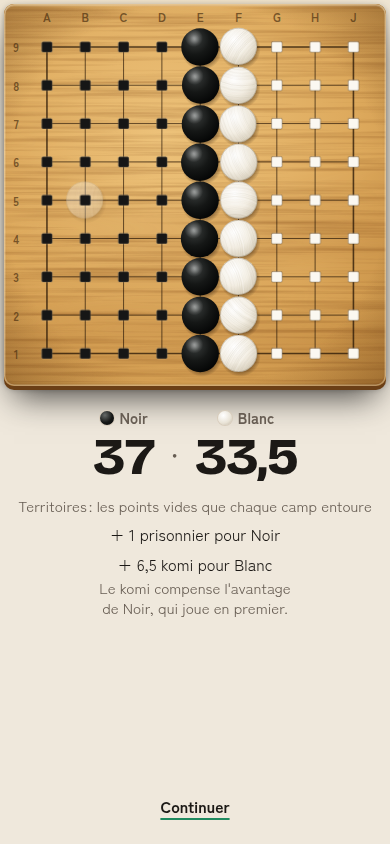
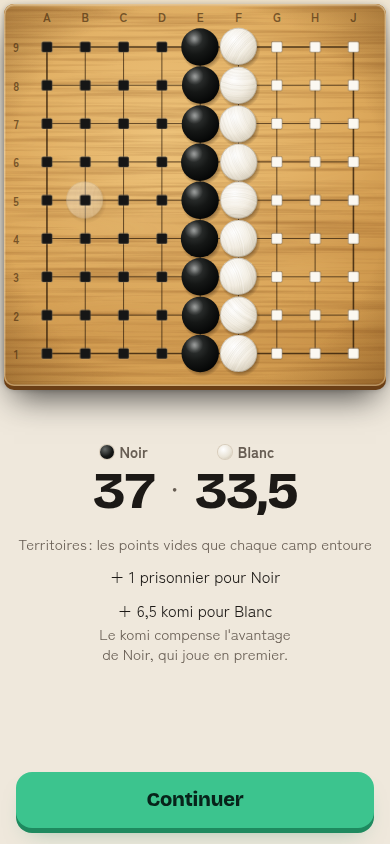
Récit du score « Toi / Pomme » et conseil pour finir la partie (#118, #120) (#131)
#118 : contre l'ordi, le récit dit « Toi » et le nom de l'adversaire,
pierre de couleur gardée ; le résultat devient « Tu gagnes de 3,5 points ! »
ou « Pomme gagne de 2,5 points ». « Continuer » devient le bouton principal
(.cta, 44 px et plus) et le bloc du récit est centré sous le goban.
À deux, les camps restent Noir et Blanc.

#120 : quand le plateau est presque plein, ou dès que Pomme passe, Mochi
explique une seule fois comment finir, avec le mot « passer » expliqué
(mémorisé dans go.passer-explique.v1). Suit le réglage d'aide de Mochi.

Game.tsx : trois lignes de branchement et l'import (hors en-tête et
hors logique de comptage).

Claude-Session: https://claude.ai/code/session_01MBh4E5pGWe9HRzjpTV2rVx

diff --git a/src/ui/RecitScore.tsx b/src/ui/RecitScore.tsx
@@ -2,7 +2,7 @@
 // puis les prisonniers, puis le komi, puis le résultat. 2,5 s au plus ; un toucher saute au résultat (l'écran de fin).
 // Même fond que FinPartie (plateau sous un voile) : quand le récit cède la place, seul le bas de l'écran change.
 import { useEffect, useRef, useState, type ReactNode } from 'react';
-import { DUREE_RECIT, EXPLICATION_KOMI, etatRecit, ligneDeuxieme, ligneKomi, ligneResultat, PAUSE_LECTURE, type Recit } from '../app/score';
+import { campsRecit, DUREE_RECIT, EXPLICATION_KOMI, etatRecit, ligneDeuxieme, ligneKomi, ligneResultat, PAUSE_LECTURE, type Recit } from '../app/score';
 import { fr } from './typo';
 import './fin.css';
 
@@ -14,13 +14,16 @@ interface Props {
   immediat: boolean;
   /** Première fois qu'on compte : on explique le mot « komi ». */
   expliquerKomi: boolean;
+  /** Contre l'ordi : son nom (« Pomme »). Les camps deviennent « Toi » et lui ; sans, Noir et Blanc (partie à deux). */
+  adversaire?: string;
   /** Fin du récit (après la pause de lecture) ou toucher : place à l'écran de fin. */
   onFini: () => void;
 }
 
 const virgule = (n: number) => String(n).replace('.', ',');
 
-export function RecitScore({ fond, recit, immediat, expliquerKomi, onFini }: Props) {
+export function RecitScore({ fond, recit, immediat, expliquerKomi, adversaire, onFini }: Props) {
+  const camps = campsRecit(adversaire);
   const [t, setT] = useState(immediat ? DUREE_RECIT : 0);
   const fini = useRef(onFini);
   useEffect(() => { fini.current = onFini; });
@@ -52,28 +55,30 @@ export function RecitScore({ fond, recit, immediat, expliquerKomi, onFini }: Pro
         <div className="fin-voile" aria-hidden="true" />
       </div>
       <div className="recit-feuille">
-        <div className="recit-compteur" aria-hidden="true">
-          <span className={gagnant === 1 ? 'camp gagnant' : 'camp'}>
-            <span className="camp-nom"><span className="recit-pierre b" />Noir</span>
-            <b data-testid="recit-noir">{virgule(e.noir)}</b>
-          </span>
-          <span className="recit-point">·</span>
-          <span className={gagnant === 2 ? 'camp gagnant' : 'camp'}>
-            <span className="camp-nom"><span className="recit-pierre w" />Blanc</span>
-            <b data-testid="recit-blanc">{virgule(e.blanc)}</b>
-          </span>
+        <div className="recit-bloc">
+          <div className="recit-compteur" aria-hidden="true">
+            <span className={gagnant === 1 ? 'camp gagnant' : 'camp'}>
+              <span className="camp-nom"><span className="recit-pierre b" />{camps.noir}</span>
+              <b data-testid="recit-noir">{virgule(e.noir)}</b>
+            </span>
+            <span className="recit-point">·</span>
+            <span className={gagnant === 2 ? 'camp gagnant' : 'camp'}>
+              <span className="camp-nom"><span className="recit-pierre w" />{camps.blanc}</span>
+              <b data-testid="recit-blanc">{virgule(e.blanc)}</b>
+            </span>
+          </div>
+          <p className="sr-only">{fr(`${camps.noir} ${virgule(recit.noir)}, ${camps.blanc} ${virgule(recit.blanc)}.`)}</p>
+          <ol className="recit-etapes">
+            <li className={vu(1)}>{fr(recit.territoire.length ? 'Territoires : les points vides que chaque camp entoure' : 'Aucun territoire')}</li>
+            <li className={vu(2)}>{fr(ligneDeuxieme(recit, camps))}</li>
+            <li className={vu(3)}>
+              {fr(ligneKomi(recit.komi, camps))}
+              {expliquerKomi && recit.komi !== 0 && <span className="recit-explication">{fr(EXPLICATION_KOMI)}</span>}
+            </li>
+            <li className={`${vu(4)} recit-resultat`}>{fr(ligneResultat(recit, camps))}</li>
+          </ol>
         </div>
-        <p className="sr-only">{fr(`Noir ${virgule(recit.noir)}, Blanc ${virgule(recit.blanc)}.`)}</p>
-        <ol className="recit-etapes">
-          <li className={vu(1)}>{fr(recit.territoire.length ? 'Territoires : les points vides que chaque camp entoure' : 'Aucun territoire')}</li>
-          <li className={vu(2)}>{fr(ligneDeuxieme(recit))}</li>
-          <li className={vu(3)}>
-            {fr(ligneKomi(recit.komi))}
-            {expliquerKomi && recit.komi !== 0 && <span className="recit-explication">{fr(EXPLICATION_KOMI)}</span>}
-          </li>
-          <li className={`${vu(4)} recit-resultat`}>{fr(ligneResultat(recit))}</li>
-        </ol>
-        <button type="button" className="lien lien-discret recit-passer" onClick={() => fini.current()}>Continuer</button>
+        <button type="button" className="cta recit-continuer" onClick={() => fini.current()}>Continuer</button>
       </div>
     </section>
   );

diff --git a/src/app/score.ts b/src/app/score.ts
@@ -64,27 +64,44 @@ export function etatRecit(r: Recit, t: number): EtatRecit {
 
 const pluriel = (n: number, mot: string) => `${virgule(n)} ${mot}${Math.abs(n) >= 2 ? 's' : ''}`;
 
-/** Ligne du deuxième temps : « + 3 prisonniers pour Noir, + 1 pour Blanc ». */
-export function ligneDeuxieme(r: Recit): string {
-  const { type, noir, blanc } = r.deuxieme, mot = type === 'prisonniers' ? 'prisonnier' : 'pierre';
-  if (!noir && !blanc) return type === 'prisonniers' ? 'Aucun prisonnier' : 'Aucune pierre';
-  if (!blanc) return `+ ${pluriel(noir, mot)} pour Noir`;
-  if (!noir) return `+ ${pluriel(blanc, mot)} pour Blanc`;
-  return `+ ${pluriel(noir, mot)} pour Noir, + ${virgule(blanc)} pour Blanc`;
+/**
+ * Noms des deux camps dans le récit (#118). À deux : « Noir » et « Blanc ». Contre l'ordi : « Toi » et son nom
+ * (« Pomme ») ; `toi` sert dans les phrases (« pour toi », « Tu gagnes »).
+ */
+export interface Camps { noir: string; blanc: string; toi: boolean }
+export const CAMPS_DEUX: Camps = { noir: 'Noir', blanc: 'Blanc', toi: false };
+
+/** Camps du récit : contre l'ordi (`adversaire` = son nom), « Toi » a Noir ; sinon Noir et Blanc. */
+export function campsRecit(adversaire?: string): Camps {
+  return adversaire ? { noir: 'Toi', blanc: adversaire, toi: true } : CAMPS_DEUX;
 }
 
-/** « + 6,5 komi pour Blanc » (un komi négatif, en test, s'écrit « − 100 »). */
-export function ligneKomi(komi: number): string {
+/** Nom d'un camp au milieu d'une phrase : « pour toi », « pour Pomme », « pour Noir ». */
+const dans = (c: Camps, camp: 1 | 2) => (camp === 1 ? (c.toi ? 'toi' : c.noir) : c.blanc);
+
+/** Ligne du deuxième temps : « + 3 prisonniers pour Noir, + 1 pour Blanc » (contre l'ordi : « pour toi », « pour Pomme »). */
+export function ligneDeuxieme(r: Recit, c: Camps = CAMPS_DEUX): string {
+  const { type, noir, blanc } = r.deuxieme, mot = type === 'prisonniers' ? 'prisonnier' : 'pierre';
+  if (!noir && !blanc) return type === 'prisonniers' ? 'Aucun prisonnier' : 'Aucune pierre';
+  if (!blanc) return `+ ${pluriel(noir, mot)} pour ${dans(c, 1)}`;
+  if (!noir) return `+ ${pluriel(blanc, mot)} pour ${dans(c, 2)}`;
+  return `+ ${pluriel(noir, mot)} pour ${dans(c, 1)}, + ${virgule(blanc)} pour ${dans(c, 2)}`;
+}
+
+/** « + 6,5 komi pour Blanc » (contre l'ordi « pour Pomme » ; un komi négatif, en test, s'écrit « − 100 »). */
+export function ligneKomi(komi: number, c: Camps = CAMPS_DEUX): string {
   if (!komi) return 'Pas de komi';
-  return `${komi < 0 ? '−' : '+'} ${virgule(Math.abs(komi))} komi pour Blanc`;
+  return `${komi < 0 ? '−' : '+'} ${virgule(Math.abs(komi))} komi pour ${dans(c, 2)}`;
 }
 
 export const EXPLICATION_KOMI = "Le komi compense l'avantage de Noir, qui joue en premier.";
 
-/** « Noir gagne de 2,5 points », ou « Égalité ». */
-export function ligneResultat(r: Recit): string {
+/** « Noir gagne de 2,5 points » à deux ; contre l'ordi « Tu gagnes de 3,5 points ! » ou « Pomme gagne de 2,5 points ». */
+export function ligneResultat(r: Recit, c: Camps = CAMPS_DEUX): string {
   if (!r.gagnant) return 'Égalité';
-  return `${r.gagnant === 1 ? 'Noir' : 'Blanc'} gagne de ${pluriel(r.marge, 'point')}`;
+  const marge = pluriel(r.marge, 'point');
+  if (r.gagnant === 1 && c.toi) return `Tu gagnes de ${marge} !`;
+  return `${r.gagnant === 1 ? c.noir : c.blanc} gagne de ${marge}`;
 }
 
 /** Compteur : « Noir 18 · Blanc 12 ». */

diff --git a/src/app/Game.tsx b/src/app/Game.tsx
@@ -13,7 +13,7 @@ import { supabase } from '../data/supabase';
 import { fr } from '../ui/typo';
 import { useProfil } from './hooks';
 import { useStored } from './settings';
-import { carteTerritoire, coupsJoues, descriptionIndices, descriptionQuiMene, DUREE_QUI_MENE, indicesRestants, INDICES_PAR_PARTIE, libelleAvantage, libelleCoup, messageAtari, messageIndice, metEnAtari, nouveauxAtari, partNoir, phraseQuiMene, QUI_MENE_PAR_PARTIE, quiMeneDisponible, quiMeneRestants } from './partie';
+import { carteTerritoire, conseilPasser, coupsJoues, descriptionIndices, descriptionQuiMene, DUREE_QUI_MENE, indicesRestants, INDICES_PAR_PARTIE, libelleAvantage, libelleCoup, messageAtari, messageIndice, metEnAtari, nouveauxAtari, partNoir, phraseQuiMene, QUI_MENE_PAR_PARTIE, quiMeneDisponible, quiMeneRestants } from './partie';
 import { choisirReplique, DUREE_REPLIQUE, type Situation } from './repliques';
 import { FinPartie } from '../ui/FinPartie';
 import { RecitScore } from '../ui/RecitScore';
@@ -147,7 +147,7 @@ export function Game({ size, komi, confirmTouch, onExit, opponent: ai, intro, on
       if (m === -1) {
         repliquer('passe');
         if (pos.lastMove === -1) enterScore(r, `${ai.nom} passe aussi : la partie est finie.`);
-        else setMsg(`${ai.nom} passe. Si tu passes aussi, on compte les points.`);
+        else setMsg(conseilPasser(ai.nom, aide, true, r.board) ?? `${ai.nom} passe. Si tu passes aussi, on compte les points.`);
       } else {
         const cap = r.captures[2] - pos.captures[2];
         playStone(m, size, true);
@@ -155,7 +155,7 @@ export function Game({ size, komi, confirmTouch, onExit, opponent: ai, intro, on
         if (metEnAtari(r, m)) playAtari();
         const alerte = cap ? null : alerteAtari(pos, r, 1, history.length + 1);
         if (alerte) atarisSubis.current++;
-        setMsg(cap ? `${ai.nom} capture ${pierres(cap)} en ${toLabel(m, size)}.` : alerte ?? `${ai.nom} joue ${toLabel(m, size)}. À toi.`);
+        setMsg(cap ? `${ai.nom} capture ${pierres(cap)} en ${toLabel(m, size)}.` : alerte ?? conseilPasser(ai.nom, aide, false, r.board) ?? `${ai.nom} joue ${toLabel(m, size)}. À toi.`);
       }
     });
     return () => { jeton.current++; setThinking(false); };
@@ -363,7 +363,7 @@ export function Game({ size, komi, confirmTouch, onExit, opponent: ai, intro, on
       const immediat = !celebrer || mouvementsReduits();
       const ownerDelai = immediat ? undefined : new Map(recit.territoire.map(q => [q.p, q.delai]));
       return (
-        <RecitScore recit={recit} immediat={immediat} expliquerKomi={!komiExplique} onFini={finRecit}
+        <RecitScore recit={recit} immediat={immediat} expliquerKomi={!komiExplique} adversaire={ai?.nom} onFini={finRecit}
           fond={<Board size={size} board={pos.board} marks={{ owner: sc.owner, ownerDelai, dead, last: pos.lastMove }} />} />
       );
     }

diff --git a/e2e/score.spec.ts b/e2e/score.spec.ts
@@ -29,6 +29,9 @@ test('fin de partie : le récit du score, puis le résultat, sans toucher', asyn
   await valider.click();
   const recit = page.locator('.recit');
   await expect(recit).toBeVisible();
+  // À deux, les camps restent Noir et Blanc (#118) ; « Continuer » est le bouton principal.
+  await expect(recit.locator('.camp-nom')).toHaveText(['Noir', 'Blanc']);
+  await expect(page.getByRole('button', { name: 'Continuer' })).toHaveClass(/\bcta\b/);
   // Les carrés de territoire se posent un à un.
   await expect(page.locator('.territoire-recit')).toHaveCount(36 + 27);
   // Le résultat arrive, avec les totaux du comptage.
@@ -53,6 +56,31 @@ test('fin de partie : le récit du score, puis le résultat, sans toucher', asyn
   await expect(page.locator('.recit')).toBeVisible();
   await expect(page.locator('.recit')).not.toContainText('Le komi compense');
   expect(erreurs).toEqual([]);
+});
+
+// Issue #118 : contre l'ordi, le récit dit « Toi » et « Pomme », et « Continuer » est le bouton principal.
+test("contre Pomme : « Toi » et « Pomme », « Tu gagnes… ! » et un vrai bouton Continuer", async ({ page }) => {
+  await page.goto('/?komi=-100');
+  await page.locator('.cta').click();
+  const passer = page.getByRole('button', { name: 'Passer' });
+  const valider = page.getByRole('button', { name: 'Valider le score' });
+  for (let i = 0; i < 6 && !(await valider.isVisible()); i++) {
+    await expect(passer).toBeEnabled({ timeout: 10_000 });
+    await passer.click();
+    await expect(valider.or(page.getByText(/Pomme (joue|capture)/))).toBeVisible({ timeout: 10_000 });
+  }
+  await valider.click({ timeout: 10_000 });
+  const recit = page.locator('.recit');
+  await expect(recit).toBeVisible();
+  await expect(recit.locator('.camp-nom')).toHaveText(['Toi', 'Pomme']);
+  await expect(recit.locator('.recit-pierre.b')).toHaveCount(1);
+  await expect(page.locator('.recit-resultat.vu')).toHaveText(/^Tu gagnes de \d+(,5)? points\s?!$/, { timeout: 3000 });
+  const continuer = page.getByRole('button', { name: 'Continuer' });
+  await expect(continuer).toHaveClass(/\bcta\b/);
+  expect((await continuer.boundingBox())!.height).toBeGreaterThanOrEqual(44);
+  expect(await page.evaluate(() => document.documentElement.scrollWidth)).toBeLessThanOrEqual(390);
+  await continuer.click();
+  await expect(page.getByRole('heading', { level: 2, name: 'Victoire' })).toBeVisible();
 });
 
 test('un toucher saute directement au résultat', async ({ page }) => {

diff --git a/src/app/partie.ts b/src/app/partie.ts
@@ -89,6 +89,43 @@ export function messageAtari(premiereFois: boolean): string {
   return premiereFois ? `${ALERTE_ATARI} ${EXPLICATION_ATARI}` : ALERTE_ATARI;
 }
 
+// Comment finir la partie (#120) : quand le plateau est presque plein, ou dès que l'ordi passe,
+// Mochi explique une seule fois qu'on passe, et que deux passes lancent le comptage.
+
+/** Vrai une fois que Mochi a expliqué le mot « passer » (comme l'atari, on ne l'explique qu'une fois). */
+export const PASSER_KEY = 'go.passer-explique.v1';
+/** Part du plateau occupée à partir de laquelle on le dit « presque plein ». */
+export const SEUIL_PRESQUE_PLEIN = 0.6;
+export const EXPLICATION_PASSER = "Passer, c'est laisser ton tour sans poser de pierre.";
+
+/** Le plateau est-il presque plein (pierres sur au moins SEUIL_PRESQUE_PLEIN des intersections) ? */
+export function presquePlein(board: Int8Array): boolean {
+  let n = 0;
+  for (let p = 0; p < board.length; p++) if (board[p]) n++;
+  return n >= board.length * SEUIL_PRESQUE_PLEIN;
+}
+
+/** Message de Mochi : l'adversaire `nom` vient de passer (`ilPasse`), ou le plateau est presque plein. Le mot est expliqué. */
+export function messagePasser(nom: string, ilPasse: boolean): string {
+  const conseil = ilPasse
+    ? `${nom} passe. Plus rien à gagner ? Passe aussi, et on compte.`
+    : `Plus rien à gagner ? Passe. Si ${nom} passe aussi, on compte.`;
+  return `${conseil} ${EXPLICATION_PASSER}`;
+}
+
+/**
+ * Conseil « passer », une seule fois pour toujours (mémorisé dans localStorage) : rend le message, ou null
+ * s'il a déjà été donné, si l'aide est coupée, ou si ni l'adversaire ne passe ni le plateau n'est presque plein.
+ */
+export function conseilPasser(nom: string, aide: boolean, ilPasse: boolean, board: Int8Array, stockage: Pick<Storage, 'getItem' | 'setItem'> | null = typeof localStorage === 'undefined' ? null : localStorage): string | null {
+  if (!aide || (!ilPasse && !presquePlein(board))) return null;
+  try {
+    if (stockage?.getItem(PASSER_KEY)) return null;
+    stockage?.setItem(PASSER_KEY, 'true');
+  } catch { /* stockage indisponible : on explique quand même */ }
+  return messagePasser(nom, ilPasse);
+}
+
 // Indices limités contre l'ordi (#35) : 3 par partie, pour que le joueur cherche d'abord seul.
 
 /** Nombre d'indices par partie contre l'ordi. */

diff --git a/src/app/partie.test.ts b/src/app/partie.test.ts
@@ -1,6 +1,29 @@
 import { describe, expect, it } from 'vitest';
-import { aideActive, ALERTE_ATARI, arrondiDemi, coupsJoues, descriptionIndices, EXPLICATION_ATARI, groupesEnAtari, indicesRestants, INDICES_PAR_PARTIE, libelleAvantage, libelleCoup, messageAtari, messageIndice, metEnAtari, nouveauxAtari, partNoir, PLUS_D_INDICE } from './partie';
+import { aideActive, ALERTE_ATARI, arrondiDemi, conseilPasser, EXPLICATION_PASSER, PASSER_KEY, presquePlein, coupsJoues, descriptionIndices, EXPLICATION_ATARI, groupesEnAtari, indicesRestants, INDICES_PAR_PARTIE, libelleAvantage, libelleCoup, messageAtari, messageIndice, metEnAtari, nouveauxAtari, partNoir, PLUS_D_INDICE } from './partie';
 import { choisirReplique, GENERIQUES, LONGUEUR_MAX, PERSONNELLES, repliques, type Situation } from './repliques';
+
+describe('conseil « passer » (#120)', () => {
+  const memoire = () => { const m = new Map<string, string>(); return { getItem: (k: string) => m.get(k) ?? null, setItem: (k: string, v: string) => void m.set(k, v) }; };
+  const vide = new Int8Array(81);
+  const plein = new Int8Array(81).map((_, i) => (i < 60 ? 1 + (i % 2) : 0));
+  it('dès que Pomme passe : une seule fois, avec le mot expliqué', () => {
+    const s = memoire();
+    expect(conseilPasser('Pomme', true, true, vide, s)).toBe(`Pomme passe. Plus rien à gagner ? Passe aussi, et on compte. ${EXPLICATION_PASSER}`);
+    expect(s.getItem(PASSER_KEY)).toBe('true');
+    expect(conseilPasser('Pomme', true, true, vide, s)).toBeNull();
+  });
+  it('plateau presque plein : le conseil de fin', () => {
+    expect(presquePlein(vide)).toBe(false);
+    expect(presquePlein(plein)).toBe(true);
+    expect(conseilPasser('Pomme', true, false, vide, memoire())).toBeNull();
+    expect(conseilPasser('Pomme', true, false, plein, memoire())).toBe(`Plus rien à gagner ? Passe. Si Pomme passe aussi, on compte. ${EXPLICATION_PASSER}`);
+  });
+  it("aide coupée : rien, et rien n'est mémorisé", () => {
+    const s = memoire();
+    expect(conseilPasser('Pomme', false, true, plein, s)).toBeNull();
+    expect(s.getItem(PASSER_KEY)).toBeNull();
+  });
+});
 import { newPosition, play, type Position } from '../go/rules';
 import { fromLabel } from '../go/coords';
 import { fromRows } from '../go/position';

diff --git a/src/ui/fin.css b/src/ui/fin.css
@@ -95,6 +95,8 @@
 .recit { cursor: pointer; -webkit-tap-highlight-color: transparent; }
 .recit .fin-voile { opacity: 0; animation: none !important; }
 .recit-feuille { position: relative; flex: 1; display: flex; flex-direction: column; align-items: center; text-align: center; margin-top: var(--space-4); }
+/* Le récit se centre dans l'espace sous le goban (#118) : plus d'écran à moitié vide, le bouton reste sous le pouce. */
+.recit-bloc { margin-block: auto; padding-block: var(--space-3); display: flex; flex-direction: column; align-items: center; width: 100%; }
 
 /* Compteur : deux camps, chiffres en Bricolage à chasse fixe (ils montent sans bouger la ligne). */
 .recit-compteur { display: flex; align-items: flex-end; justify-content: center; gap: var(--space-4); }
@@ -109,13 +111,13 @@
 .recit-compteur:has(.gagnant) .camp:not(.gagnant) b { color: var(--muted); }
 
 /* Étapes : toujours en place (la mise en page ne saute pas), elles se montrent quand le récit les atteint. */
-.recit-etapes { list-style: none; margin: var(--space-3) 0 0; padding: 0; display: grid; gap: 8px; font-size: 16px; line-height: 1.35; max-width: 30em; }
+.recit-etapes { list-style: none; margin: var(--space-4) 0 0; padding: 0; display: grid; gap: 12px; font-size: 16px; line-height: 1.35; max-width: 30em; }
 .recit-etape { opacity: 0; }
 .recit-etape.vu { opacity: 1; }
 .recit-etape:first-child { color: var(--muted); font-size: 15px; }
 .recit-explication { display: block; margin-top: 2px; color: var(--muted); font-size: 15px; text-wrap: balance; }
 .recit-resultat { margin-top: var(--space-2); font-family: var(--font-titre); font-weight: var(--fw-titre); font-size: 28px; letter-spacing: -.02em; }
-.recit-passer { margin-top: auto; }
+.recit-continuer { margin-top: var(--space-4); flex: none; }
 
 @media (prefers-reduced-motion: no-preference) {
   .recit:not(.immediat) .recit-feuille { animation: fin-entree 240ms var(--ease) both; }

diff --git a/src/app/score.test.ts b/src/app/score.test.ts
@@ -1,7 +1,24 @@
 import { describe, expect, it } from 'vitest';
-import { DUREE_CARRE, DUREE_RECIT, etatRecit, ligneCompteur, ligneDeuxieme, ligneKomi, ligneResultat, recitScore, TEMPS } from './score';
+import { campsRecit, DUREE_CARRE, DUREE_RECIT, etatRecit, ligneCompteur, ligneDeuxieme, ligneKomi, ligneResultat, recitScore, TEMPS } from './score';
 import { score } from '../go/score';
 import { fromRows } from '../go/position';
+
+describe('camps du récit (#118)', () => {
+  const r = (gagnant: 0 | 1 | 2, marge: number) => ({ ...recitScore(fromRows(['.....', '.....', '.....', '.....', '.....']).pos, 6.5), gagnant, marge });
+  it("contre l'ordi : « Toi » et le nom de l'adversaire", () => {
+    expect(campsRecit('Pomme')).toEqual({ noir: 'Toi', blanc: 'Pomme', toi: true });
+    expect(ligneResultat(r(1, 3.5), campsRecit('Pomme'))).toBe('Tu gagnes de 3,5 points !');
+    expect(ligneResultat(r(2, 2.5), campsRecit('Pomme'))).toBe('Pomme gagne de 2,5 points');
+    expect(ligneKomi(6.5, campsRecit('Pomme'))).toBe('+ 6,5 komi pour Pomme');
+    const d = { ...r(1, 1), deuxieme: { type: 'prisonniers' as const, noir: 3, blanc: 1 } };
+    expect(ligneDeuxieme(d, campsRecit('Pomme'))).toBe('+ 3 prisonniers pour toi, + 1 pour Pomme');
+  });
+  it('à deux : Noir et Blanc', () => {
+    expect(campsRecit()).toEqual({ noir: 'Noir', blanc: 'Blanc', toi: false });
+    expect(ligneResultat(r(1, 3.5), campsRecit())).toBe('Noir gagne de 3,5 points');
+    expect(ligneResultat(r(0, 0), campsRecit('Pomme'))).toBe('Égalité');
+  });
+});
 
 // Partie 5 × 5 : Noir tient la gauche, Blanc la droite ; une pierre blanche morte (T) dans le camp noir.
 const { pos, marked } = fromRows([
